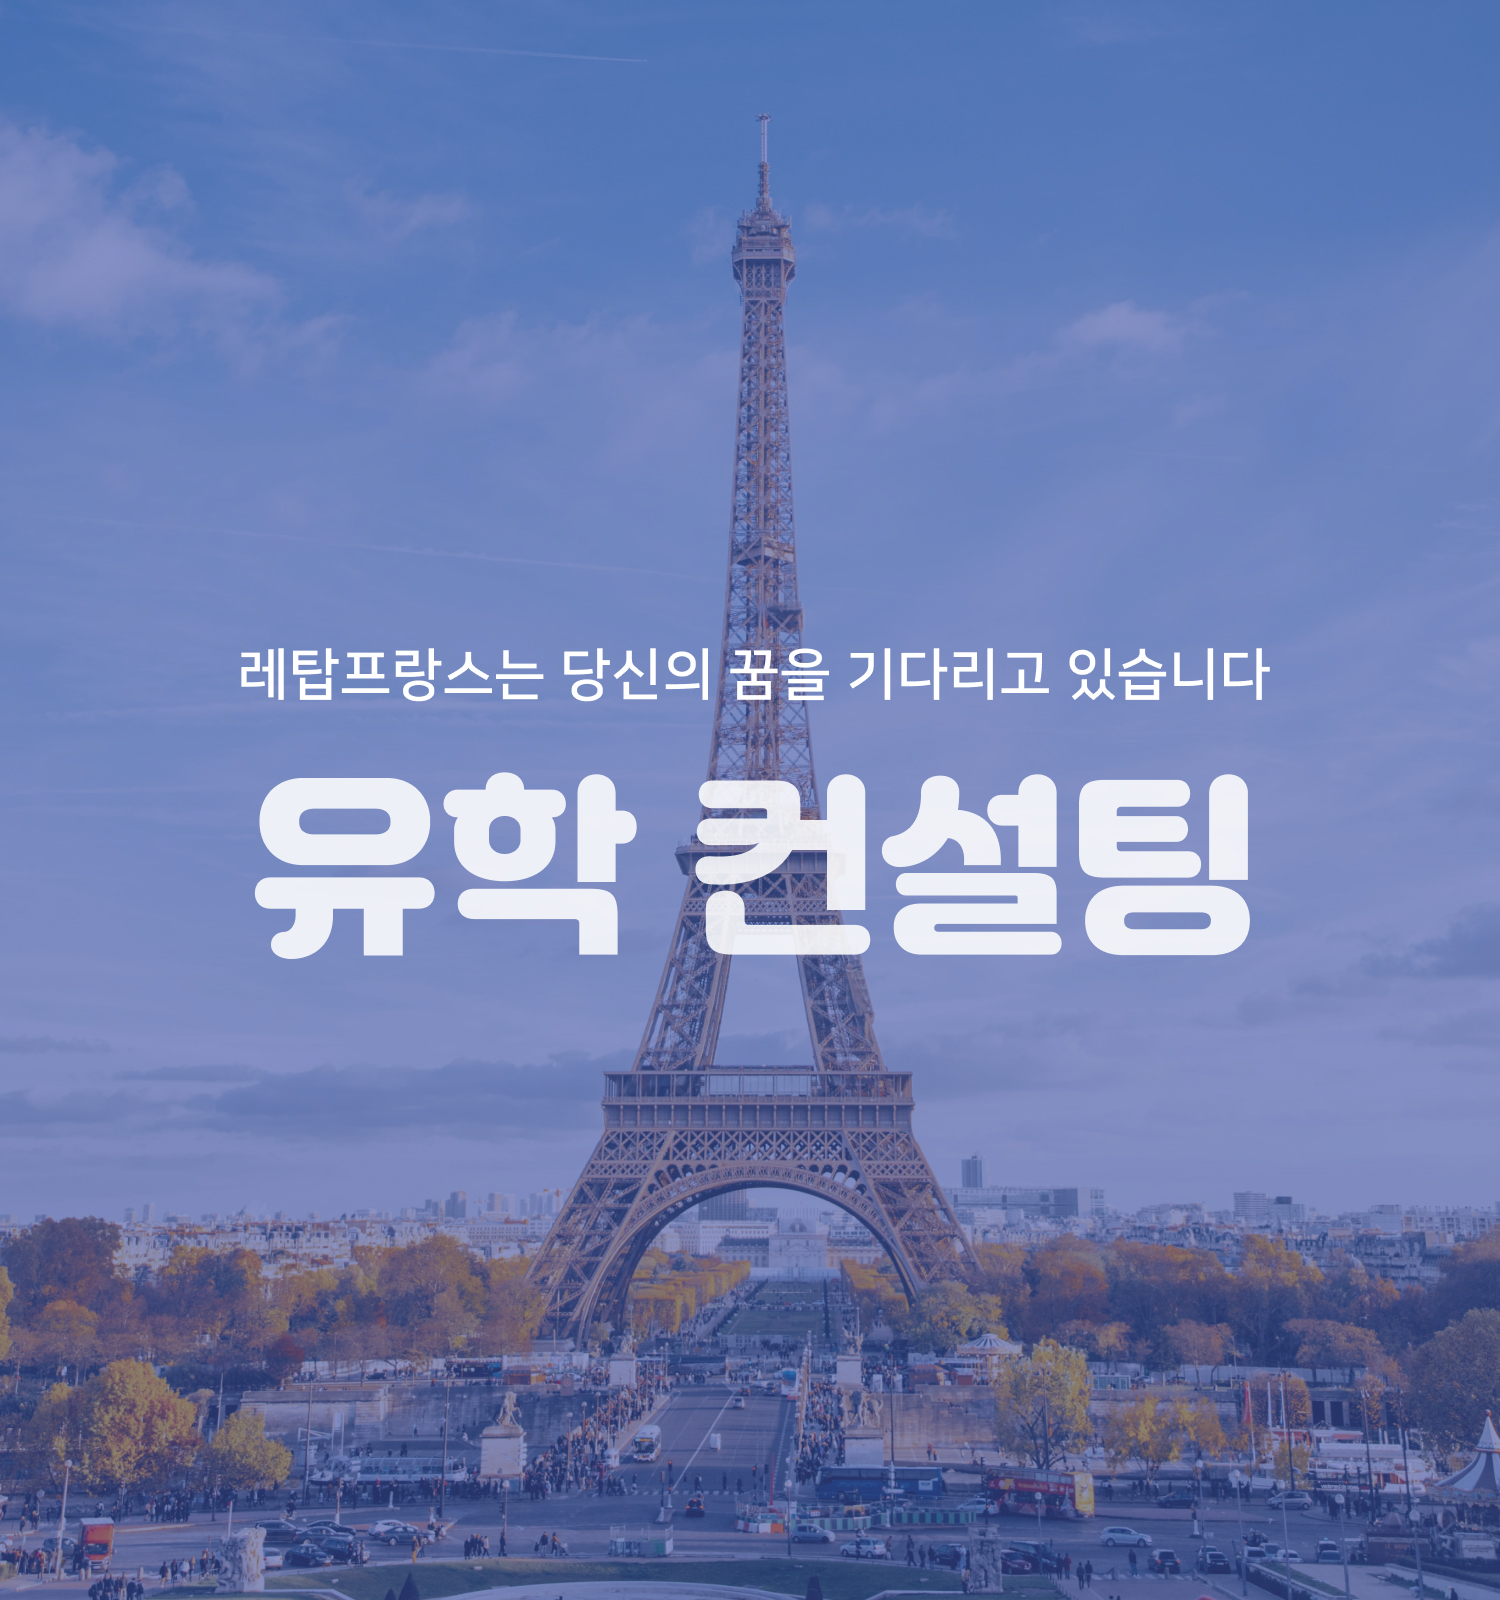
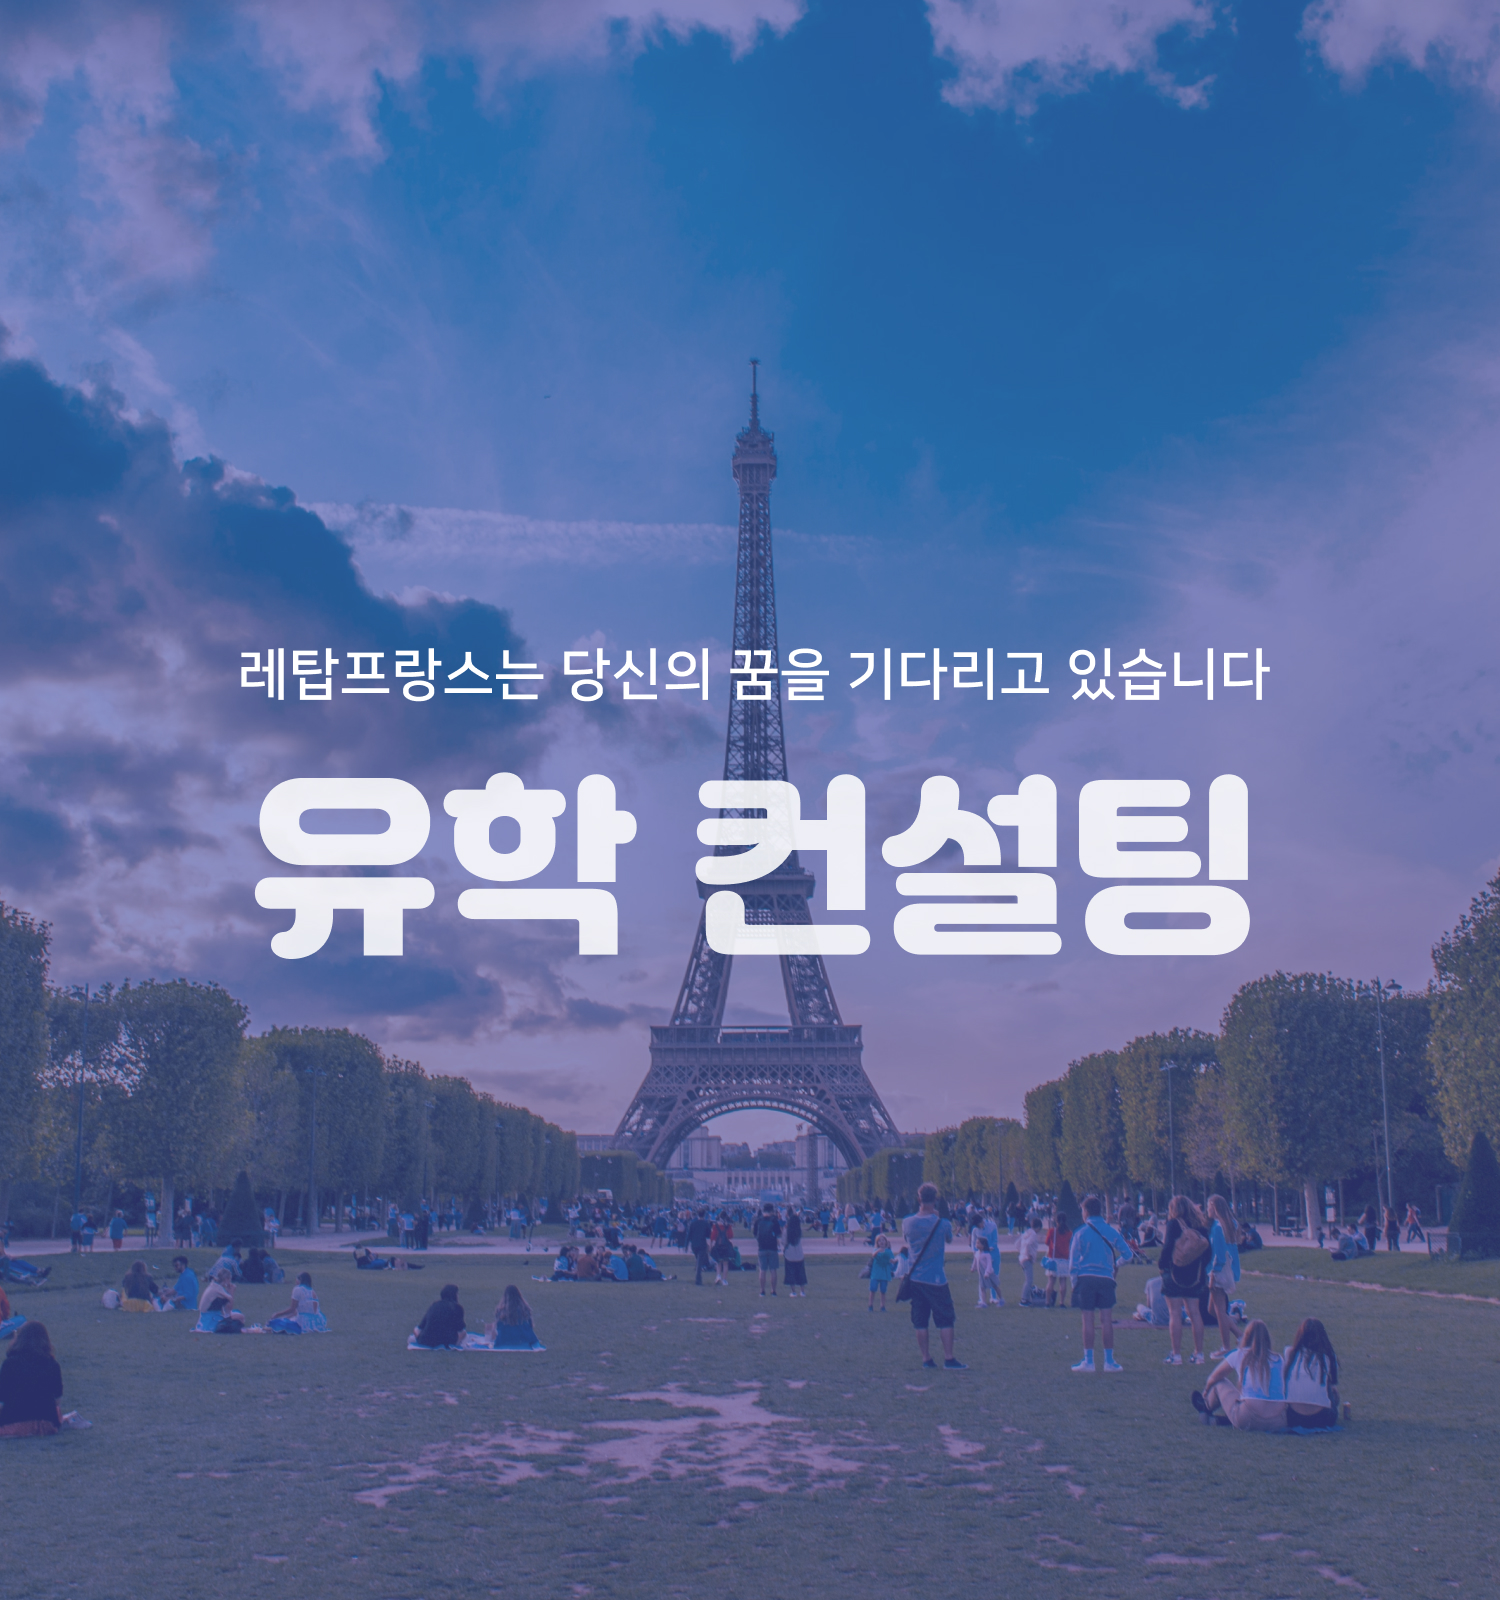
유학페이지 이미지 변경 및 강의 페이지 이미지 크기 수정, 리스트 배열 수정

diff --git a/subPages/anotherService.html b/subPages/anotherService.html
@@ -197,12 +197,12 @@
     @media screen and (min-width: 768px) and (max-width: 1023px) {
         ul { 
         width: 100%;
-        height: 650px;
+        height: 480px;
         }
         .bxslider li {
         list-style: none;
         width: 100%;
-        height: 650px;
+        height: 480px;
         }
         .bxslider li img {
             display: none;
@@ -246,7 +246,7 @@
             display: none;
         }
         .bxsliderImg01 {
-            background-image: url(../images/subPages/lf_subPages_another_main_img01_test.jpg);
+            background-image: url(../images/subPages/lf_subPages_another_main_img01.jpg);
             background-repeat: no-repeat;
             background-position: center;
             background-size: cover;

diff --git a/css/style_ipadpro.css b/css/style_ipadpro.css
@@ -206,11 +206,12 @@
     border-radius: 10px;
     width: 650px;
     height: 80px;
-    padding: 0 10px;
+    padding: 0 20px;
     margin-bottom: 10px;
     background-color: #fff;
     display: flex;
     align-items: center;
+    box-sizing: border-box;
   }
   .classAdvantagesList ul {
     display: flex;
@@ -239,7 +240,6 @@
   }
   .classOfferList div {
     float: left;
-    height: 30px;
   }
   .subPageIcon {
     width: 30px;
@@ -249,6 +249,9 @@
   .classOfferListText {
     line-height: 1.5rem;
     width: 600px;
+  }
+  .classOfferListText_letterSpacing {
+    letter-spacing: -0.02rem;
   }
   .offerHashtagWrap {
     padding-top: 40px;

diff --git a/subPages/class02.html b/subPages/class02.html
@@ -172,7 +172,7 @@
                         <div style="height: 24px;">
                             <img src="../images/subPages/lf_subPages_class_classOffer_icon05.png" alt="장점"   class="subPageIcon">
                         </div>
-                        <div class="classOfferListText">
+                        <div class="classOfferListText classOfferListText_letterSpacing">
                             담당 선생님이 아닌 다른 원어민 선생님과 실전 대비 모의 인터뷰 진행<br>
                             (3개월 등록 시 1회 제공)
                         </div>

diff --git a/css/style_mobile.css b/css/style_mobile.css
@@ -1,4 +1,3 @@
-
 .classOfferList img {
   width: 24px;
   height: 24px;
@@ -13,13 +12,13 @@
   padding-bottom: 50px;
   margin: 0 auto;
 }
-.classOfferList div {
-  height: 24px;
-}
 .subPageIcon {
   width: 24px;
   height: 24px;
   padding-right: 10px;
+}
+.class05BannerImg02 {
+  width: 100%;
 }
 @media screen and (min-width: 480px) and (max-width: 767px) {
   /* 모바일 가로 CSS */

diff --git a/css/style_tablet.css b/css/style_tablet.css
@@ -323,6 +323,11 @@
     left: 50%;
     transform: translate(-50%, -50%);
   }
+  .class05BannerImg02 {
+    display: block;
+    width: 550px;
+    margin: auto;
+  }
   .class03Interview {
     padding: 45px 0 50px 0;
     text-align: center;
